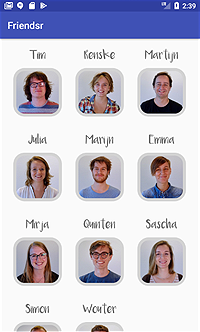
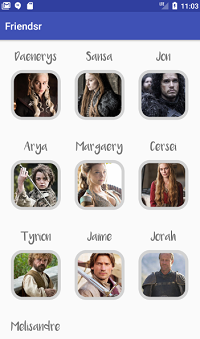
changed images

diff --git a/40 Guided/30 Friendsr/content.md b/40 Guided/30 Friendsr/content.md
@@ -5,15 +5,15 @@
 - Practice with adapter views
 - Work with navigation in apps
 - Use multiple activities
-- Store small data on the device
+- Store small amounts of data on the device
 
 ## Background
 
-For this app, you will create an social friends/dating app that allows you to view people's profiles and some information about them. When the user first loads the app, it will show a list of available users.  The user can click on each one to see a bigger photo and get more information about that user. On the screen is a way to rate the user. It could for example look something like this:
+For this app, you will create an social friends app that allows you to view people's profiles and some information about them. When the user first loads the app, it will show a list of available users. The user can click on each one to see a bigger photo and get more information about that user. On the screen is a way to rate the user. It could for example look something like this:
 
 ![App Example](friendsrimage0.png) ![App Example](friendsrimage1.gif) ![App Example](friendsrimage2.png)
 
-Of course this app will be an incomplete experience: you don't need to allow people to create profiles, and you can just show a fixed set of people's profiles that never changes. It does not need to do everything that an app like Facebook or Tinder can do.
+Of course this app will be an incomplete experience: you don't need to allow people to create profiles, and you can just show a fixed set of people's profiles that never changes. It does not need to do everything that an app like Facebook can do. If you don't want to supply your own images you can download a set of Game of Thrones characters [here] TODO.
 
 To create this app, we will make use of two *Activities* e.g. screens in our app, one that shows a list with an overview of all people available in the app, and another that is triggered when we click on one of these people which provides more details and a bigger profile picture.
 
